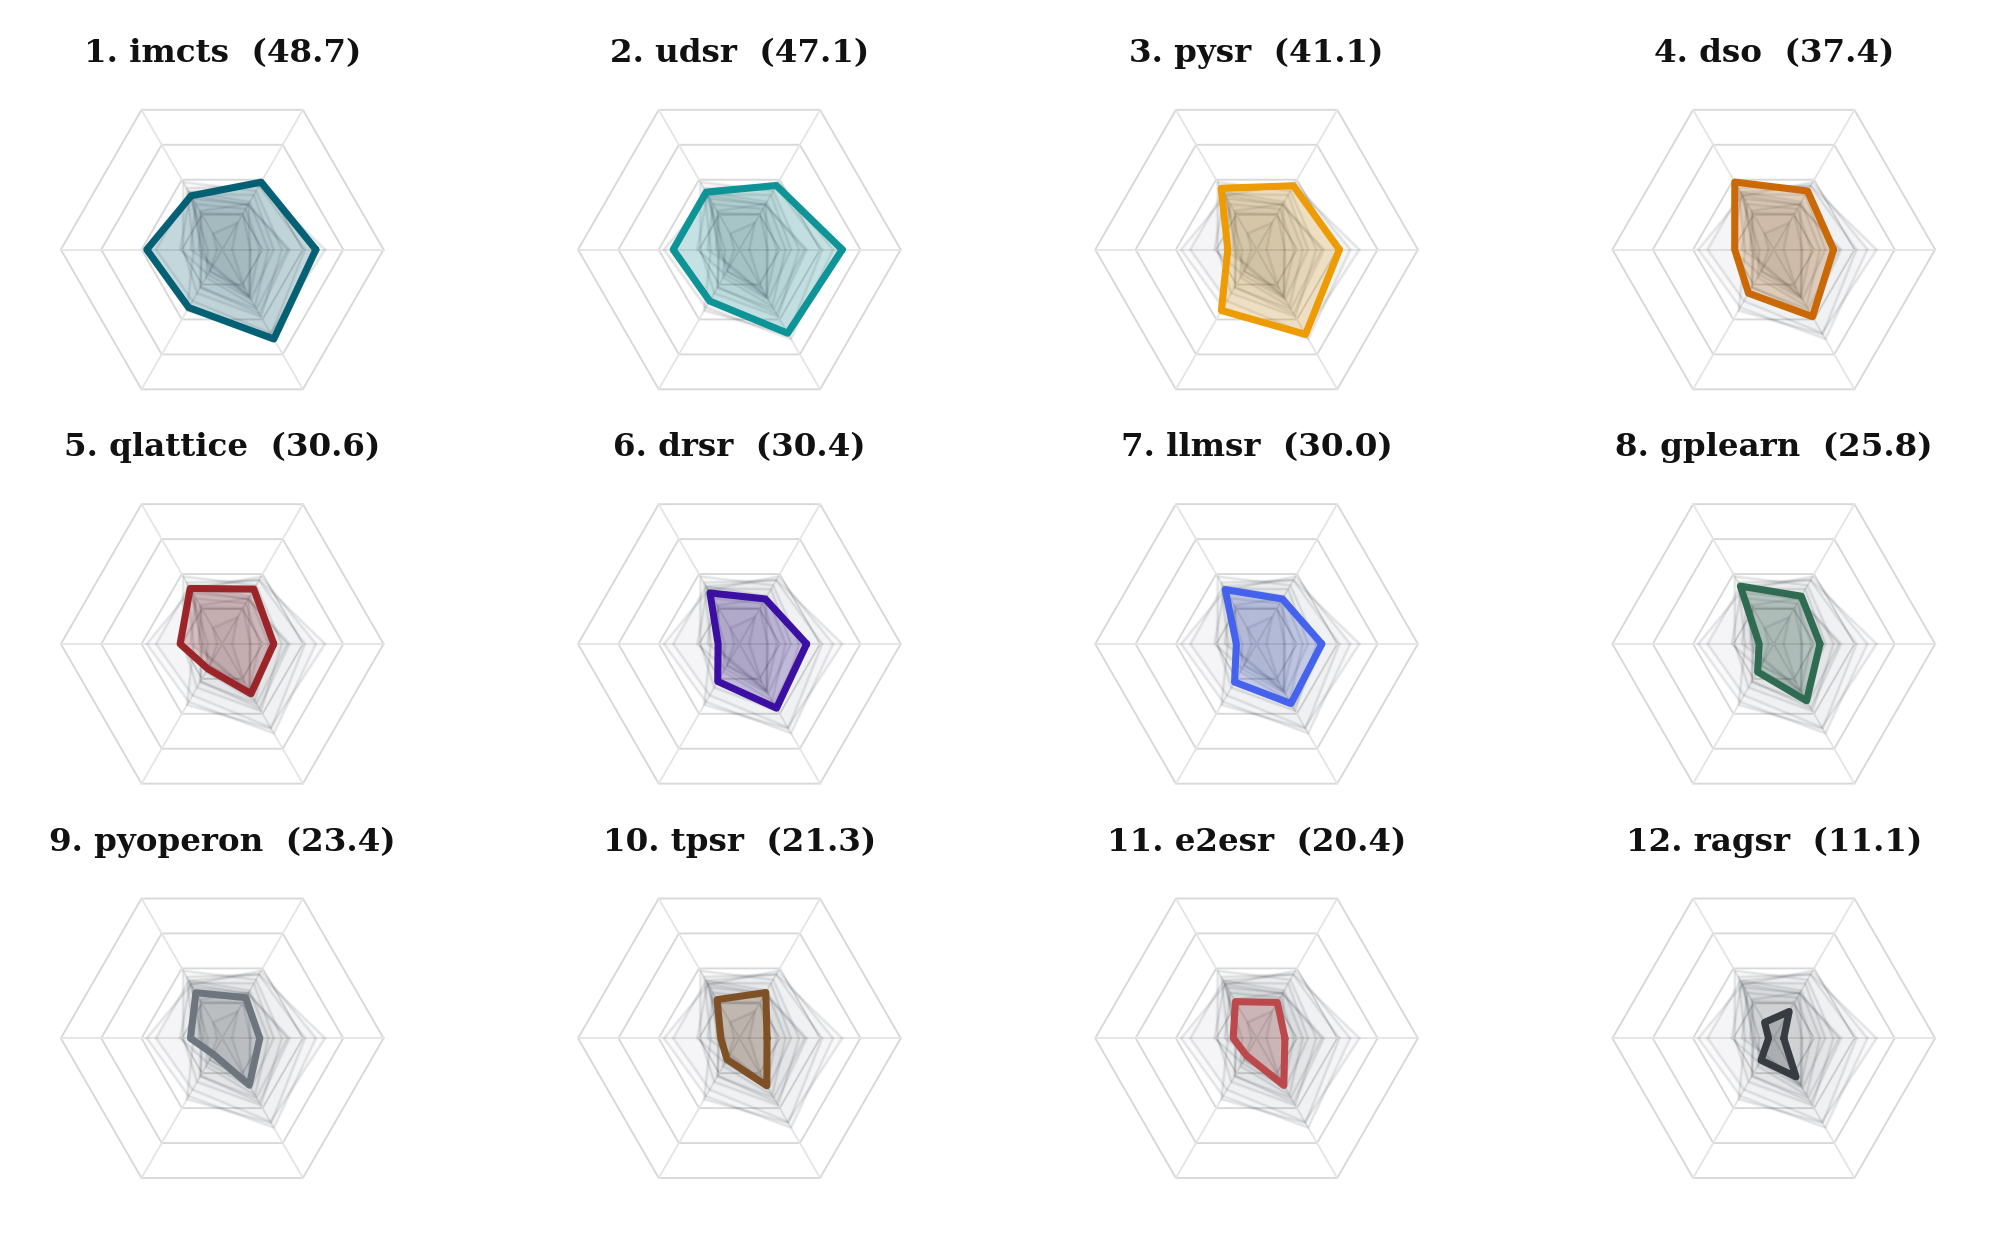
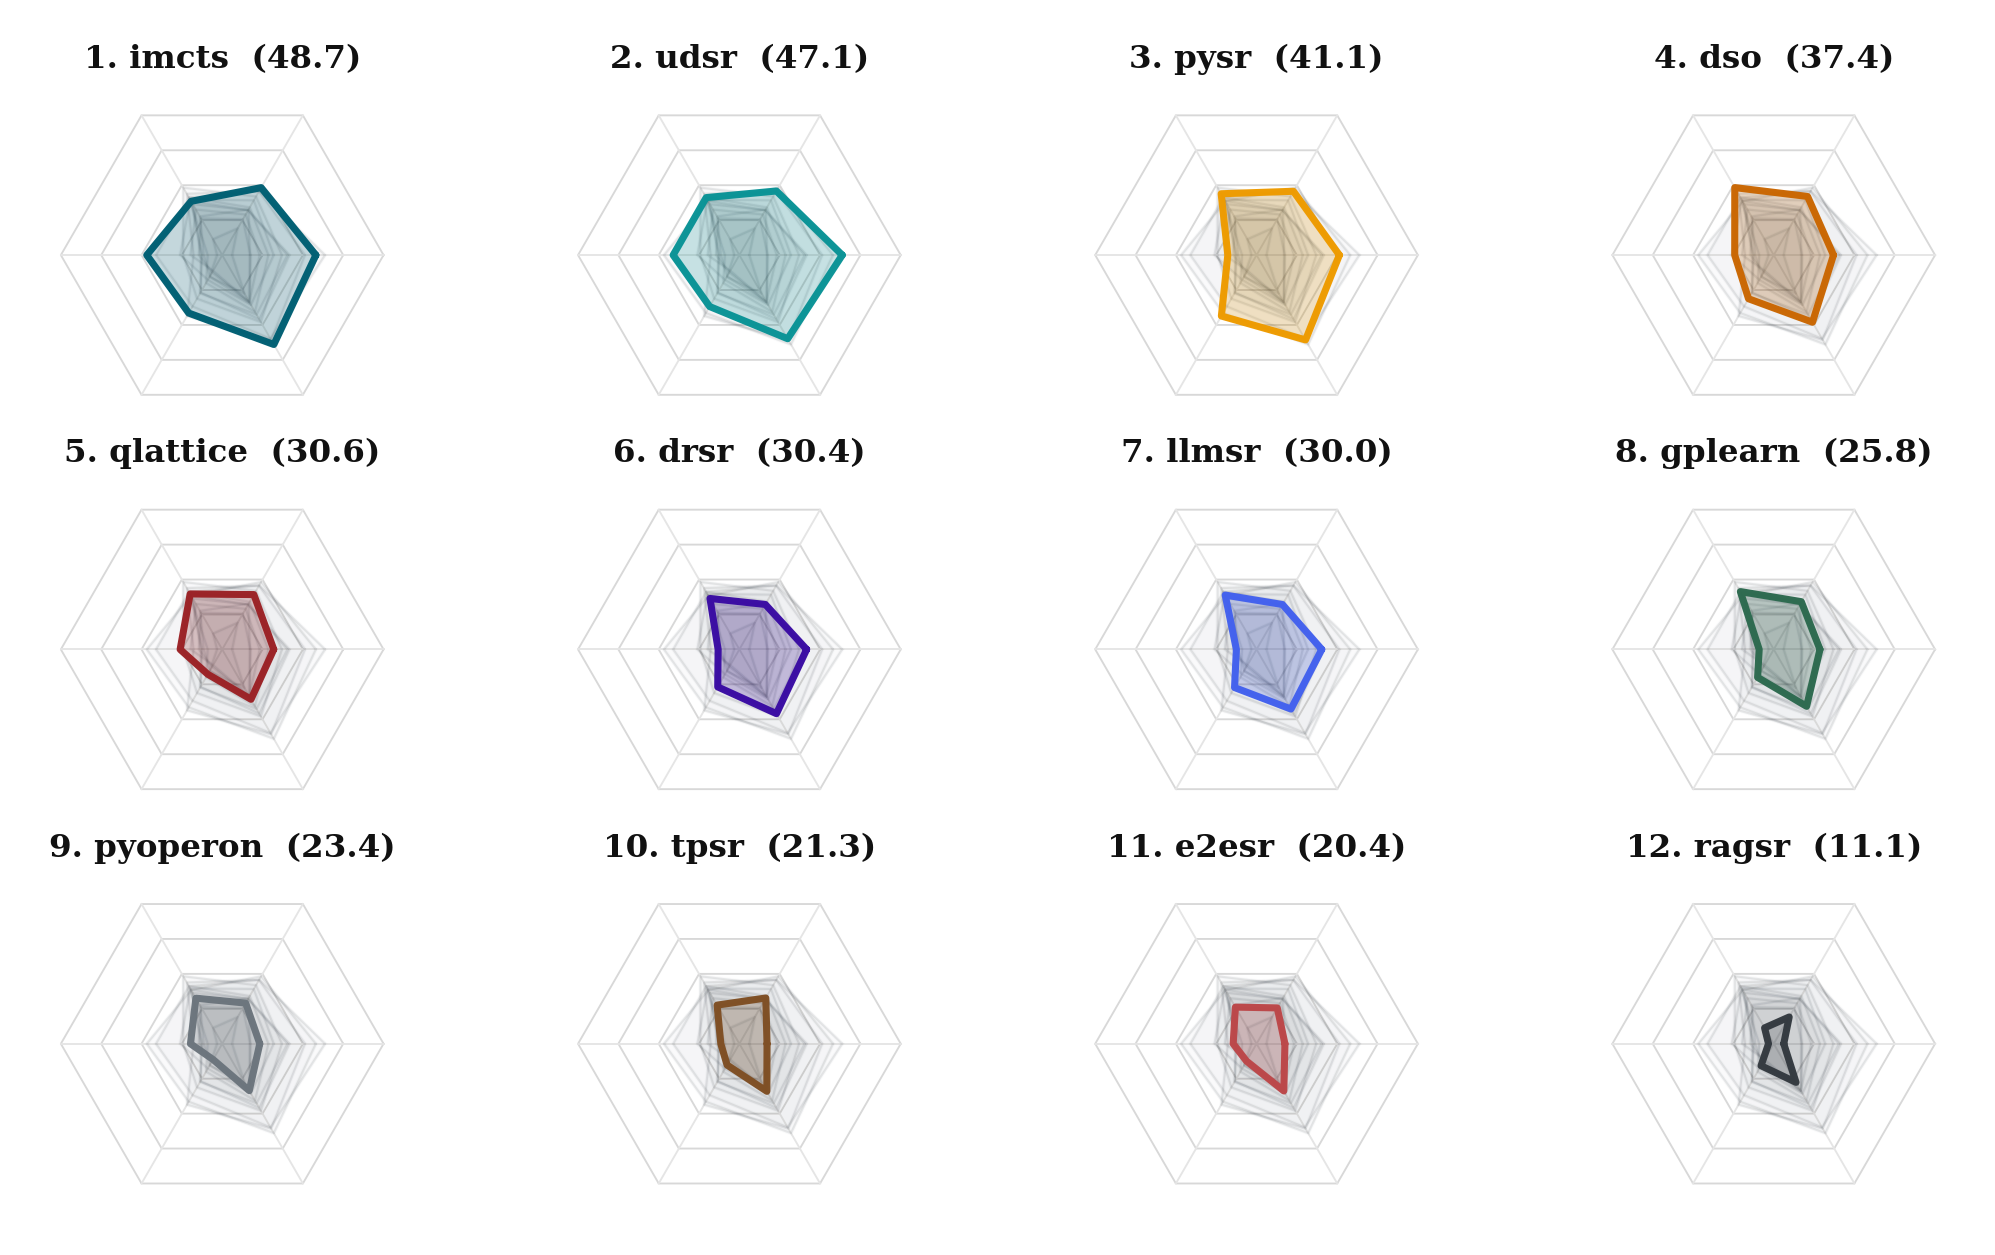
[update] 再次调整六轴小图上下边距

diff --git a/check/plot_hexagon_small_multiples_neurips.py b/check/plot_hexagon_small_multiples_neurips.py
@@ -31,8 +31,8 @@ SCORE_COL = "HexaScore_formal_with_ROB"
 GRID_SCORE_LEVELS = [0.25, 0.50, 0.75, 1.00]
 HIGHLIGHT_FILL_ALPHA = 0.20
 SAVE_SIDE_PAD_INCHES = 0.02
-SAVE_BOTTOM_PAD_INCHES = 0.01
-SAVE_TOP_PAD_INCHES = 0.12
+SAVE_BOTTOM_PAD_INCHES = 0.005
+SAVE_TOP_PAD_INCHES = 0.14
 SUBPLOTS_TOP = 0.935
 HIGHLIGHT_COLORS = [
     "#005f73",
